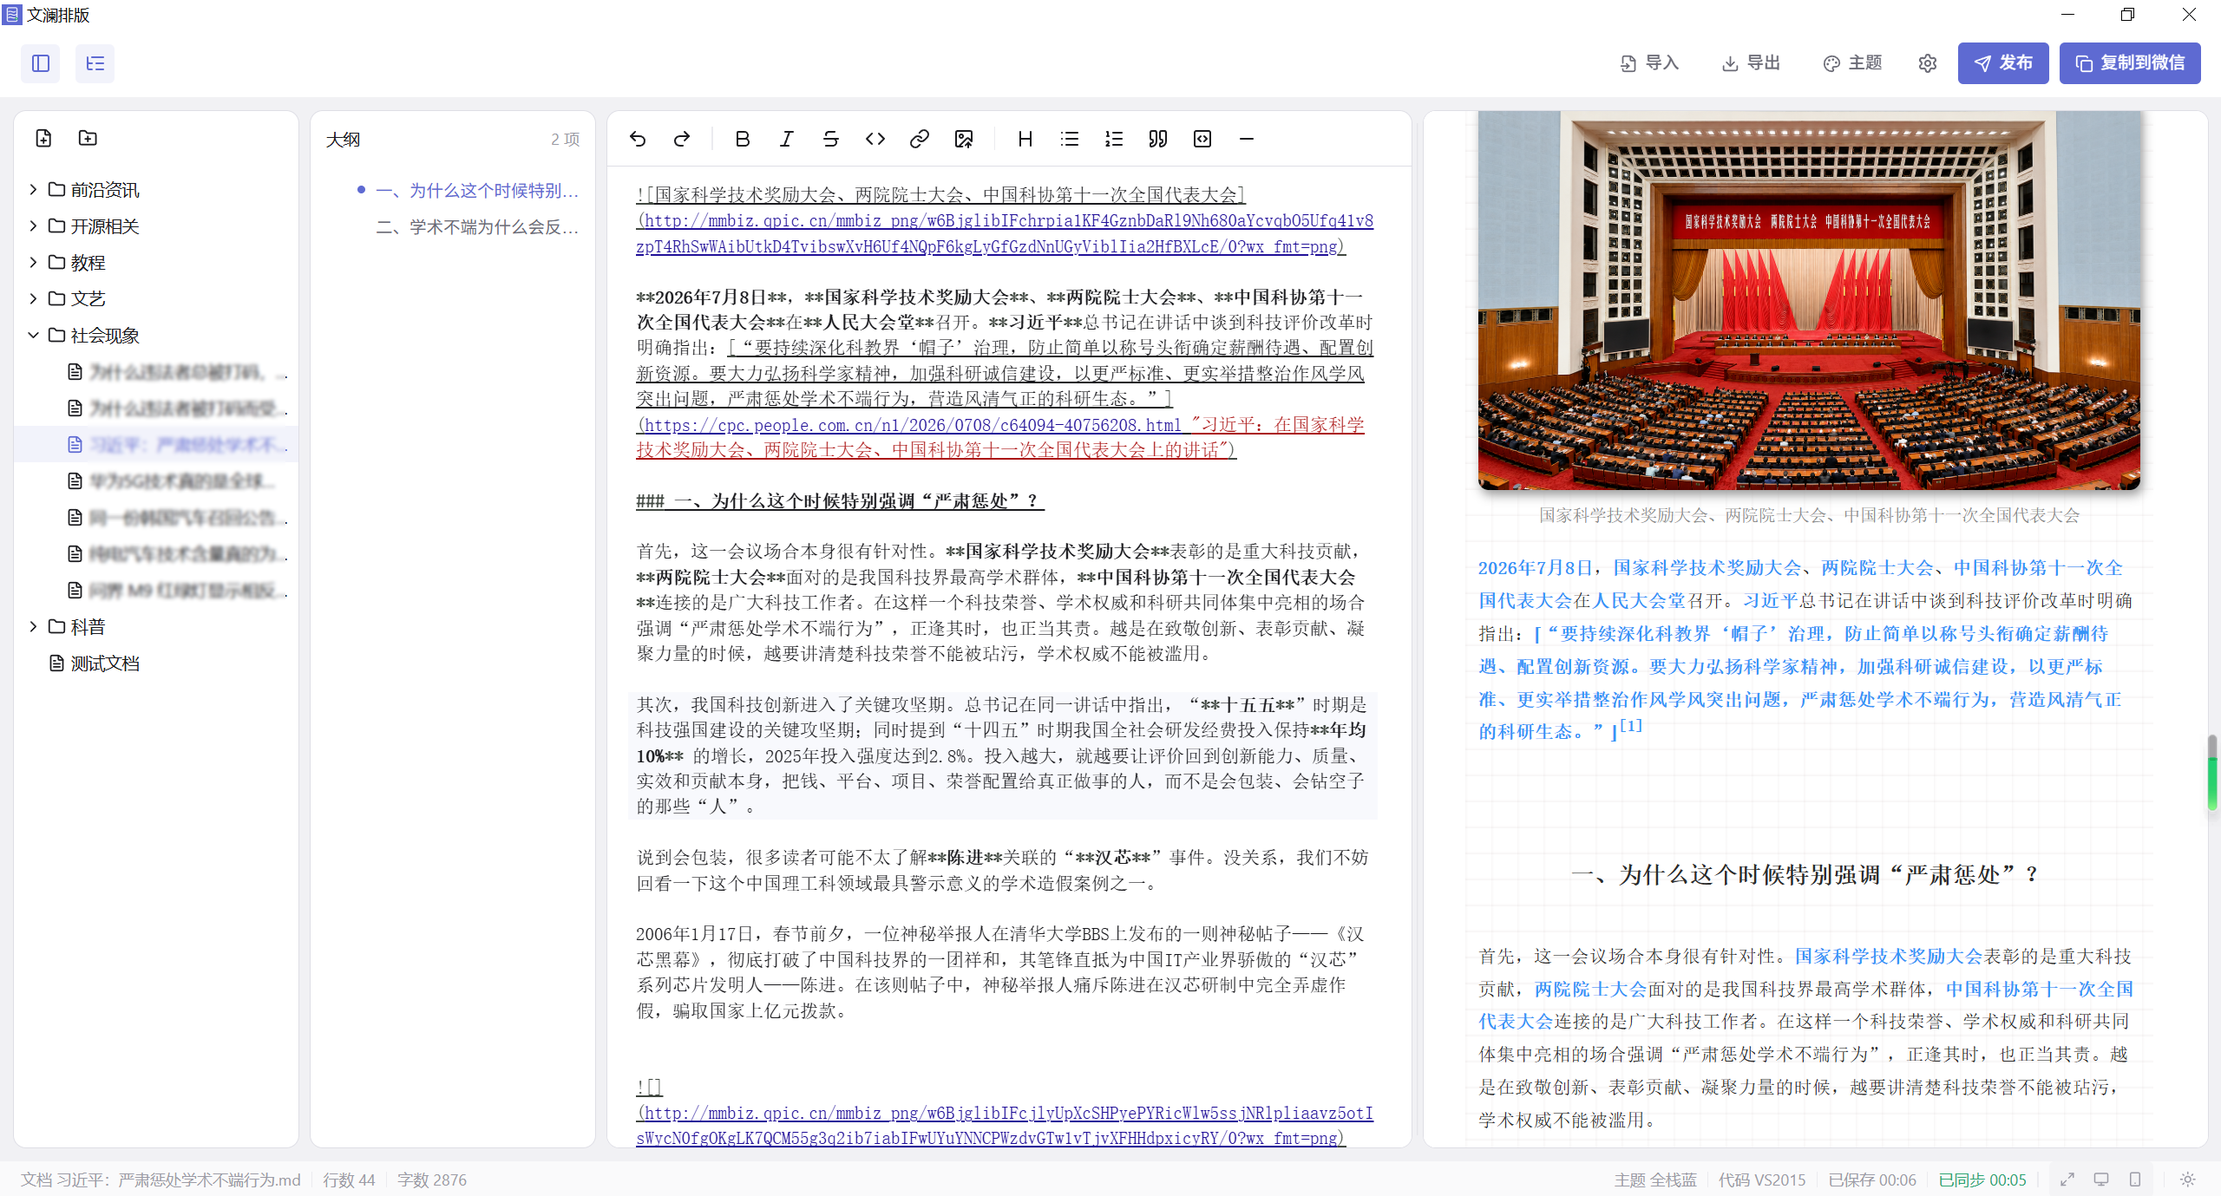
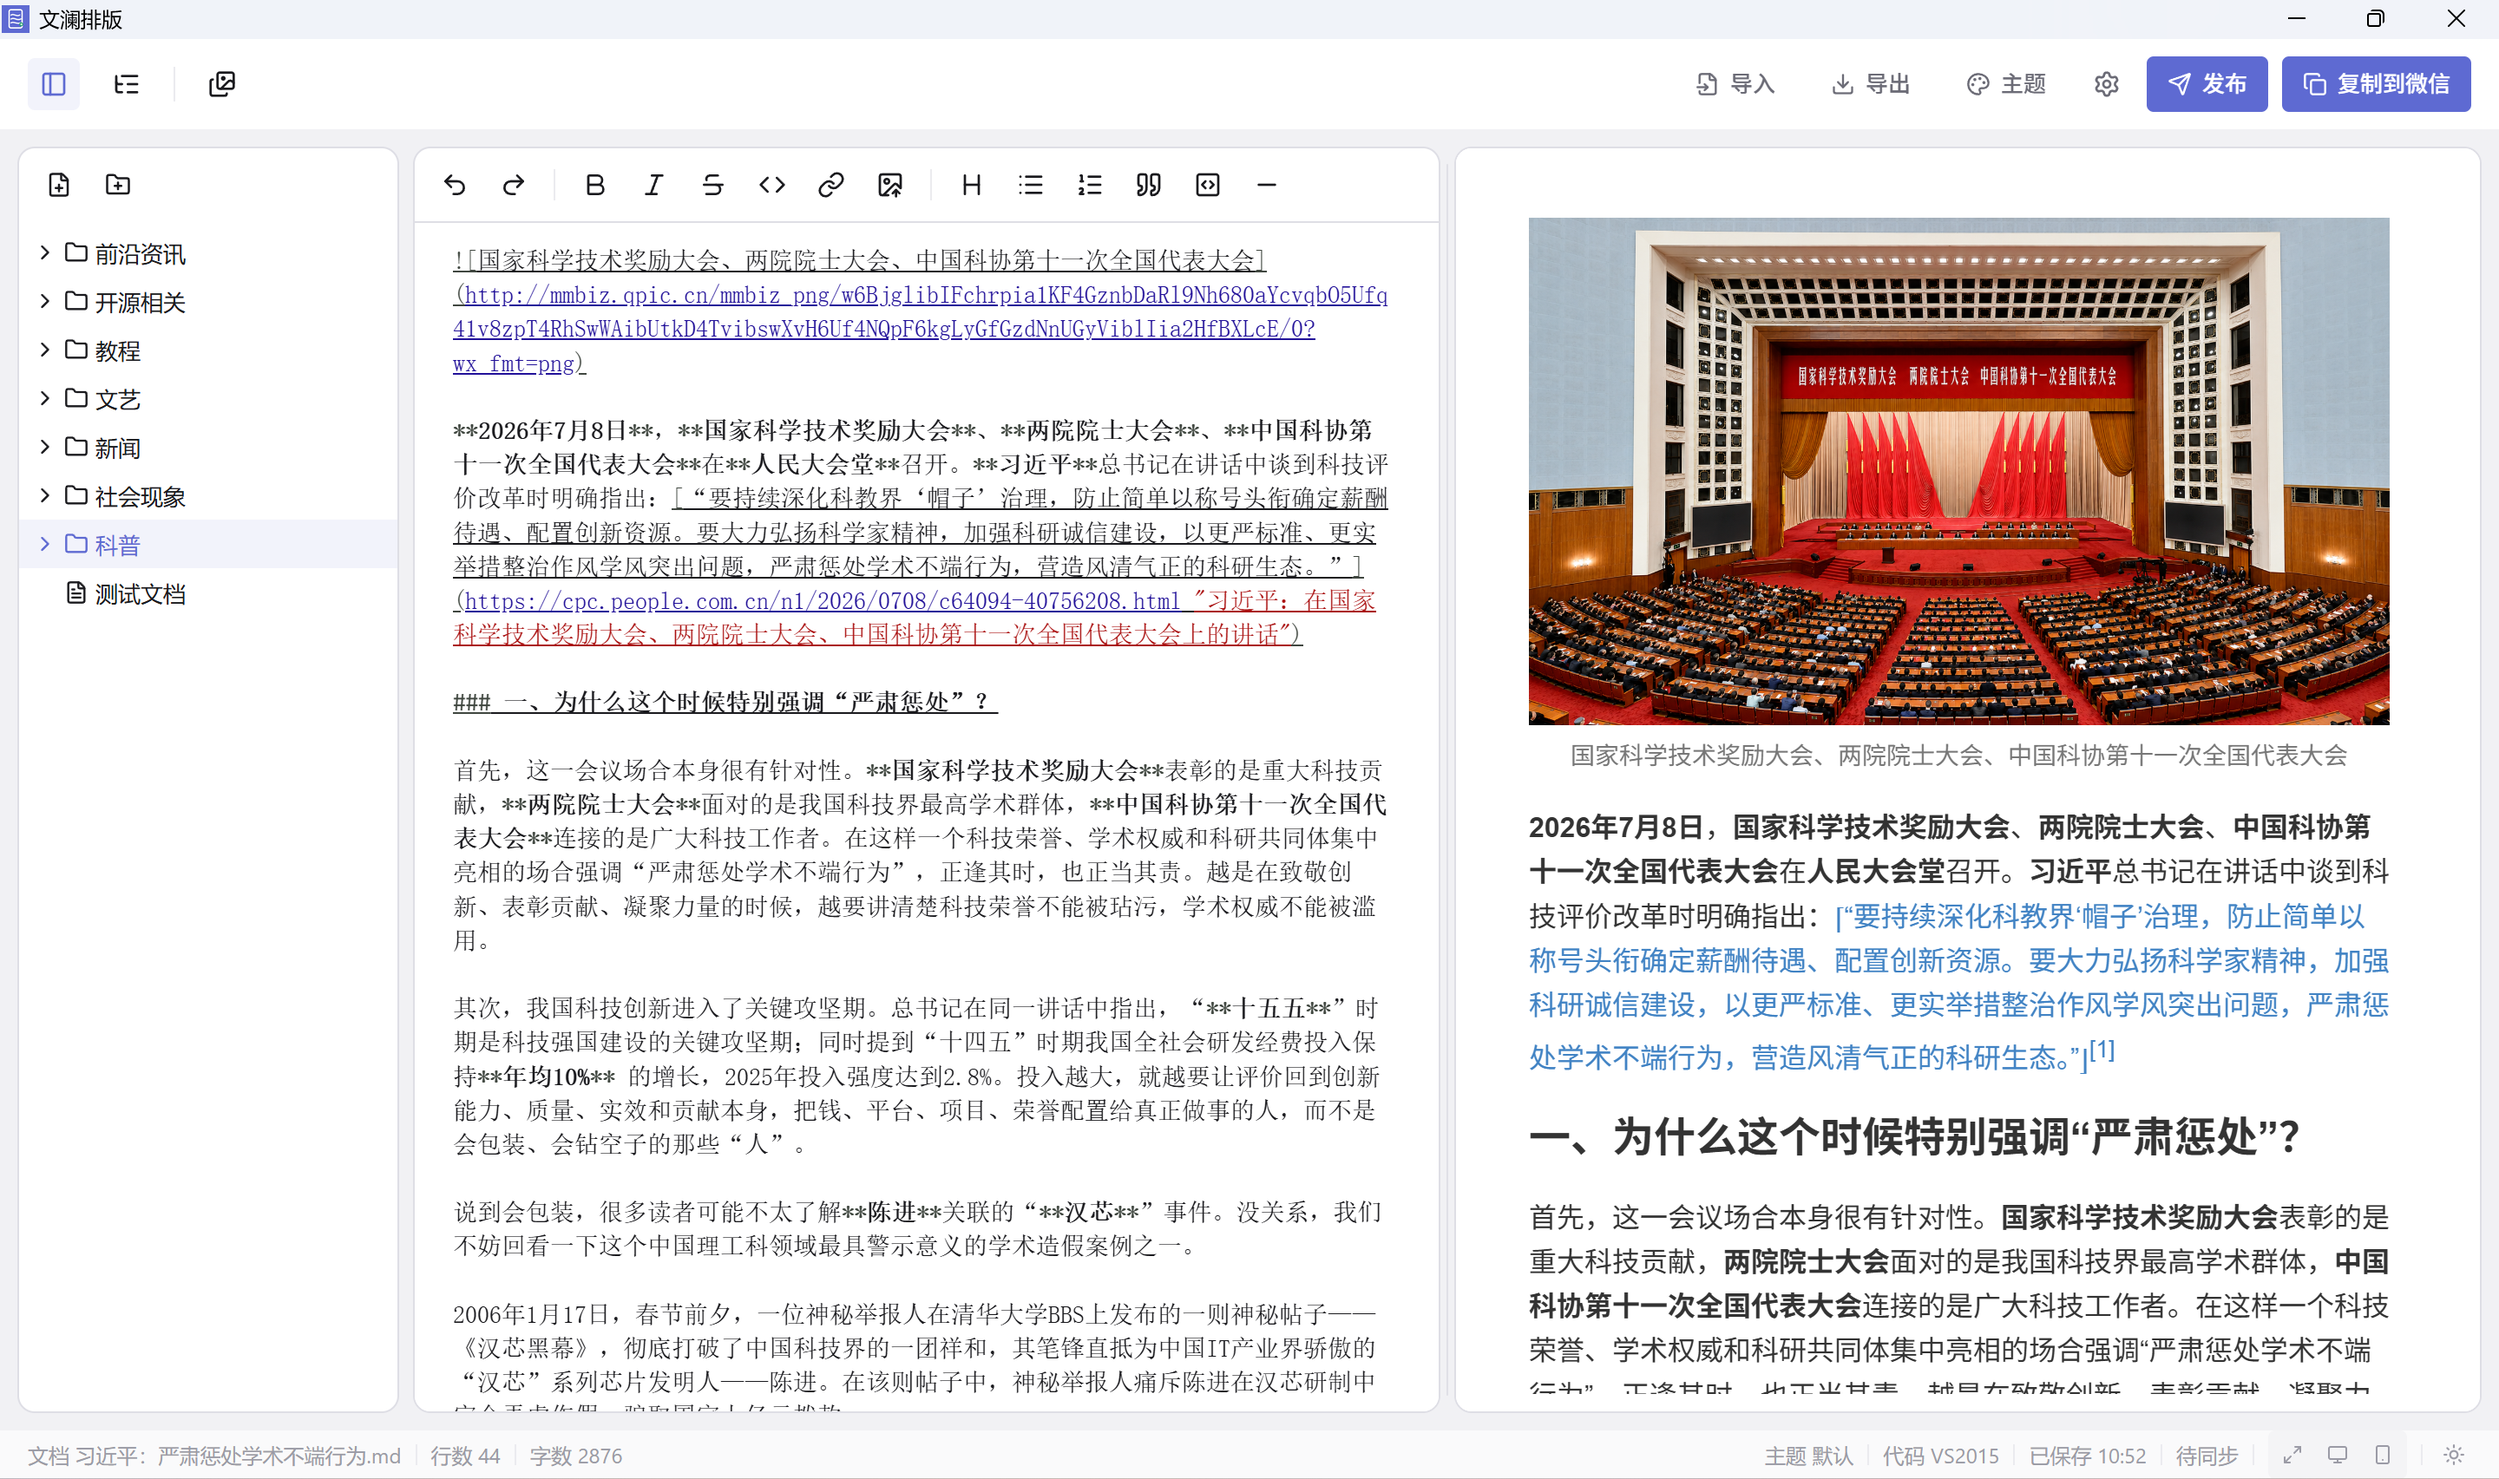
更新readme

diff --git a/README.md b/README.md
@@ -49,7 +49,7 @@
 
       <img src="assets/documents-and-sync.png" alt="多文档管理与文件同步" style="zoom:50%;" />  
 
-   - 云同步：为了满足多设备的使用，软件使用坚果云免费的 WebDAV服务，把文件管理目录下的文件树同步到云端目录。在另一台设备上安装本软件后，配置好坚果云账号信息，即可恢复A设备的所有文章。
+   - 云同步：为了满足多设备的使用，软件使用坚果云免费的 WebDAV服务，把文件管理目录下的文件树同步到云端目录。在另一台设备上安装本软件后，配置好坚果云账号信息，即可恢复A设备的所有文章。为了避免频繁触发同步导致上游限流，本工具的上传自动触发周期为3分钟，如果需要立即上传，可以按住Ctrl+S。
 
    - 本地优先：文章编辑和保存不依赖于网络，云同步在本地保存完成后于后台异步执行，不会因为网络波动阻塞正常编辑。
 
@@ -70,7 +70,15 @@
    - 批量导入：可以一次选择多个 Markdown 文件，并将其导入当前选中的文档目录。
    - 指定资源目录：有的markdown编辑器对语法进行了扩展，比如Obsidian使用 `！[[图片名字]]`这种语法，在自动尝试在子目录查找资源失败后，可以根据指定资源目录进行精准定位，然后解析上传。
 
-8. 其他”也许“对你来说实用的小功能：
+8. ⭐大图自动压缩⭐：微信永久素材库上传图片限制$10\times 1024\times 1024$字节，即$10\mathrm{MiB}$，本工具支持在图片正式上传前通过内置算法将一张大于10Mib小于50Mib的图片，在秒级时间复杂度下，压缩到10Mib以内，并尽量保持图片的质量。
+
+9. ⭐永久素材库管理⭐：有时候可能错误上传了一些图片，亦或者对图片版本有更新，那么旧版本自然作废，于是就有了删除的需求。如果每次都去公众号网页端管理素材库在我看来很是麻烦，于是就把这部分功能集成到工具内了。
+
+   如下图所示，该板块现在支持批量选择与删除，支持批量选择与插入，支持直接上传图片到素材库而不插入文章。
+
+   ![](assets/image-20260729104850228.png)
+
+10. 其他”也许“对你来说实用的小功能：
 
    - 自动保存与启动恢复：编辑内容会自动保存为本地的Markdown 文件，切换文档或关闭窗口前也会主动刷新尚未落盘的内容。软件会记住上次打开的文档，下次启动时自动恢复编辑现场。
 
